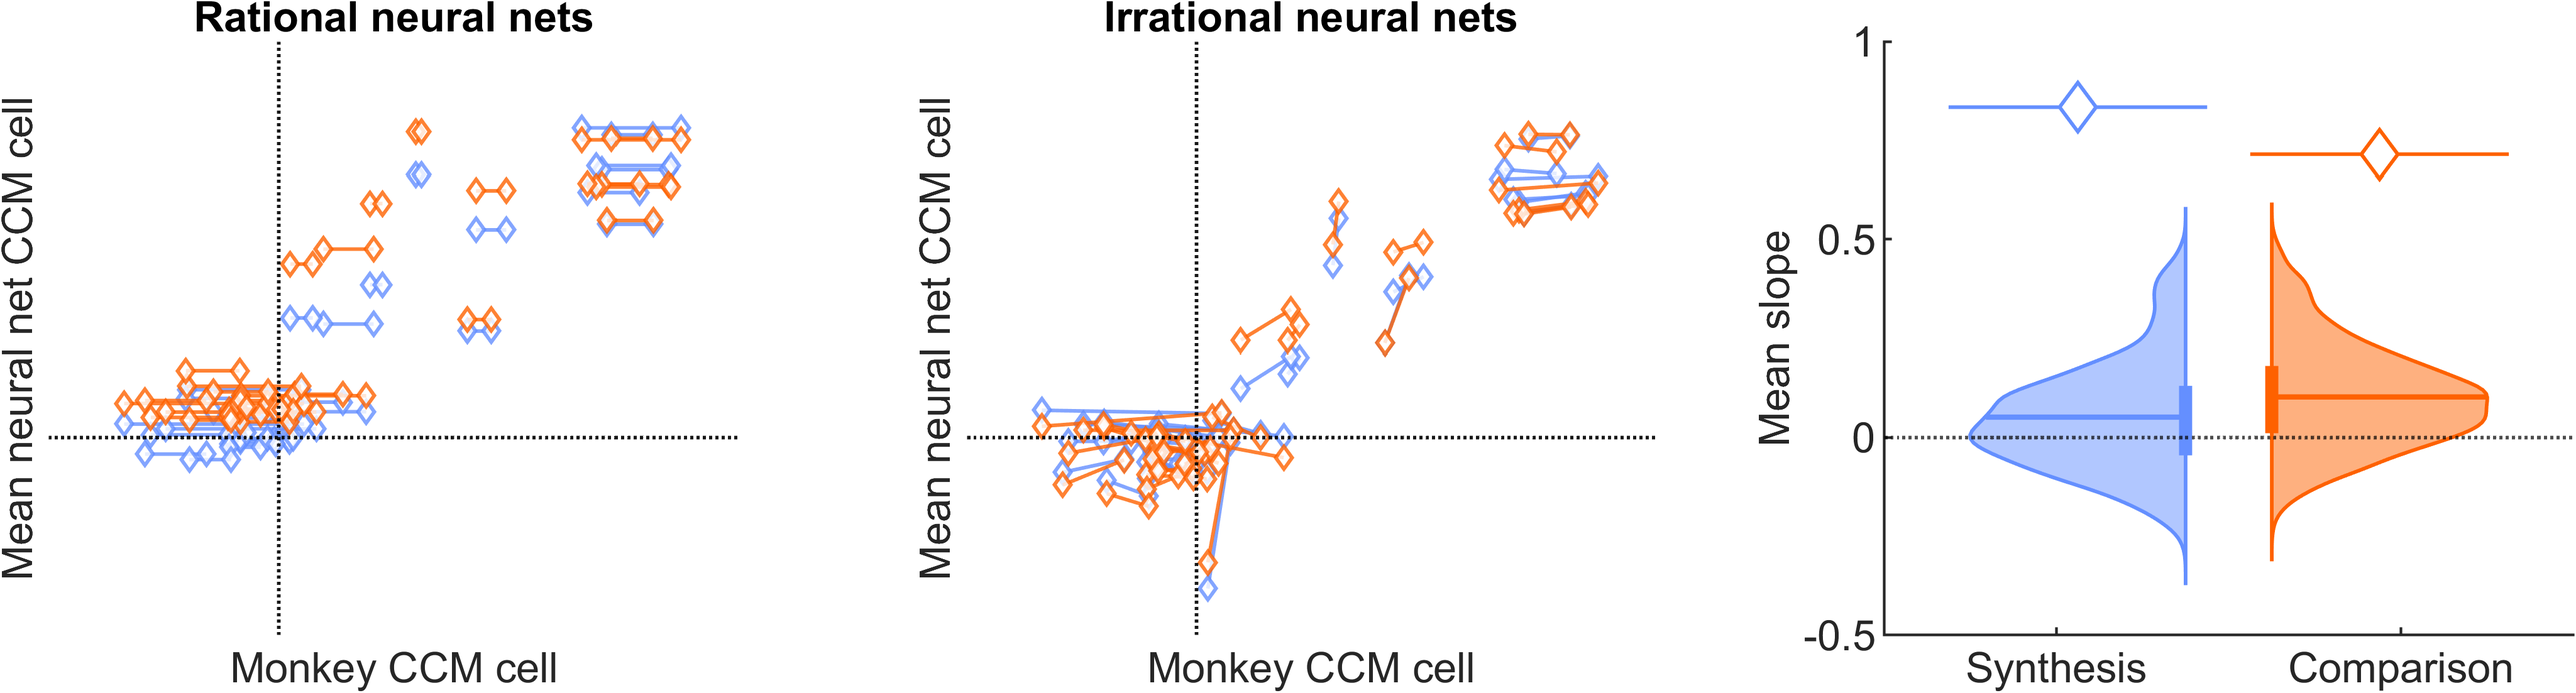
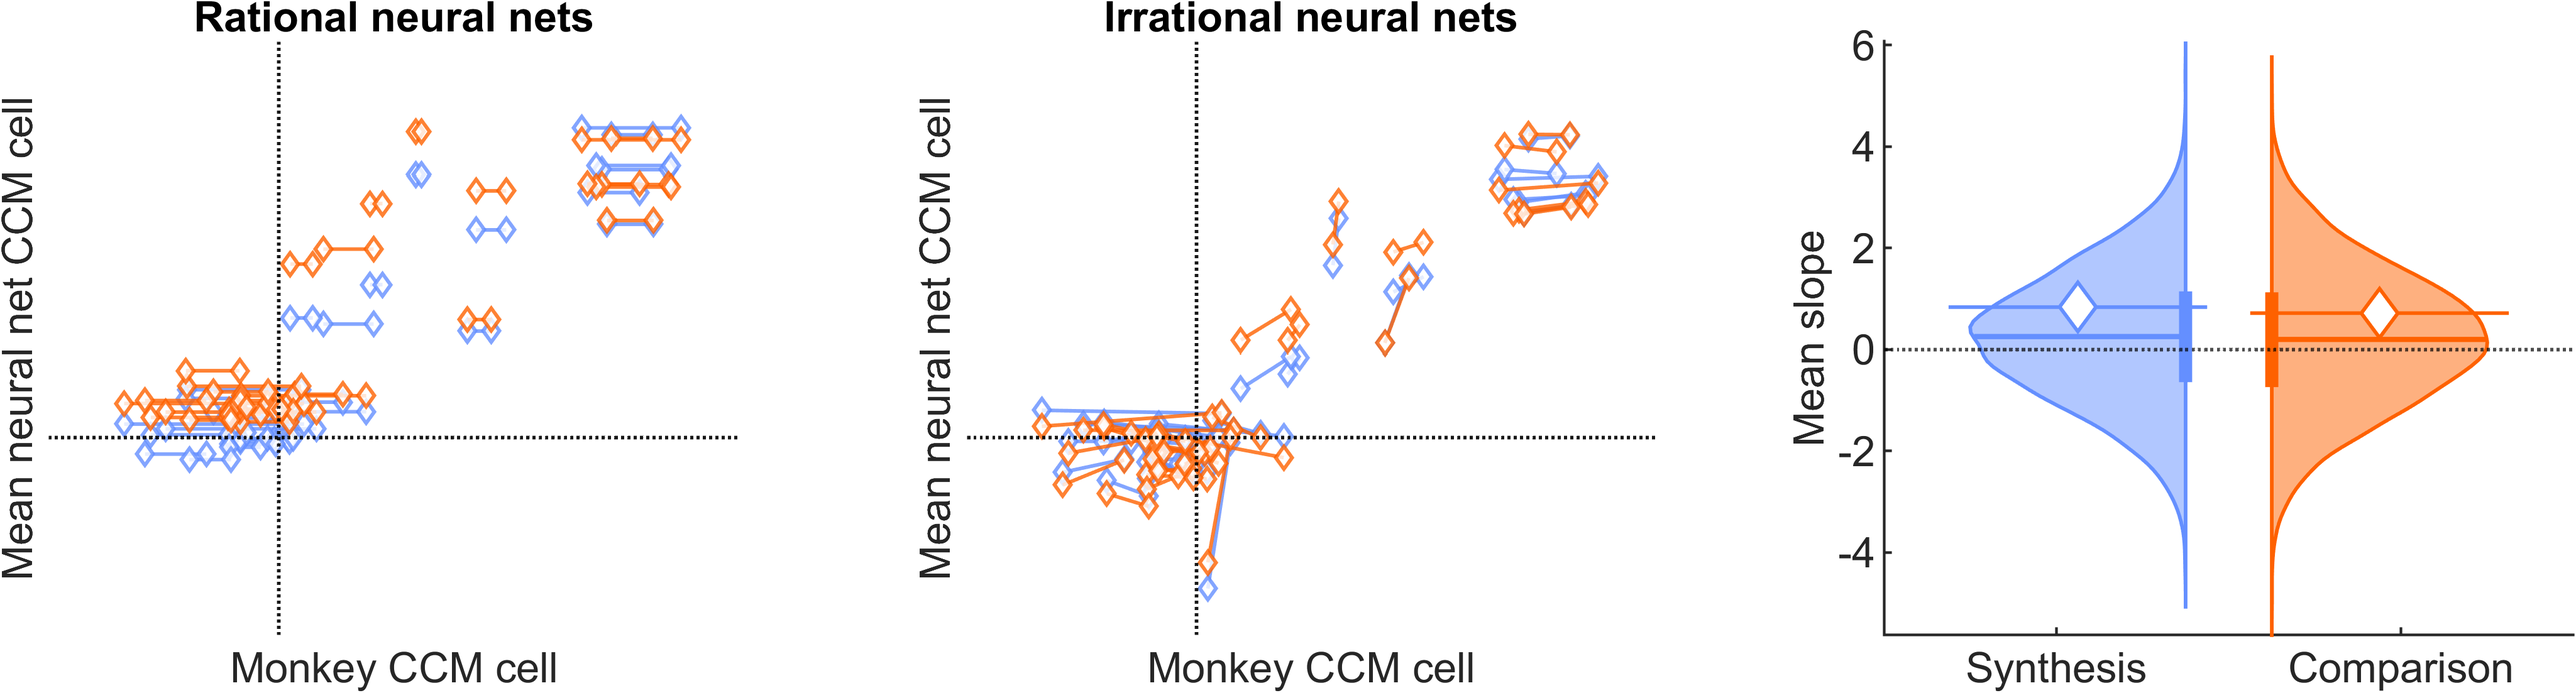
Shuffle independently all CCM cells

diff --git a/src/plots/figS6_choice_difficulty.m b/src/plots/figS6_choice_difficulty.m
@@ -1,0 +1,50 @@
+% Fig. S6 | Choice difficulty as a function of choice onset time. Average
+% choice ease, as measured in terms of the absolute value difference
+% between options (where option values are derived from each monkey's
+% estimated value profile), is plotted against choice onset time, for both
+% option (light) and attribute (dark) trials. Red and blue colors indicate
+% monkeys (red: monkey F, blue: monkey M).
+
+
+%% === Environment set-up =================================================
+
+setup;
+clear variables;
+close all;
+
+
+%% === Load data ==========================================================
+
+CueSequences = load(fullfile(getPath("MonkeyData"), "CueSequences.mat"));
+
+
+%% === Generate figure ====================================================
+
+close all;
+
+% Initialize the figure
+f = figure(...
+    Name = "Figure S6: choice difficulty as a function of choice onset time", ...
+    Units = "centimeters", ...
+    Position = [0, 0, 4.5, 4.5], ...
+    NumberTitle="off", ...
+    Color = "w");
+movegui(f, "center");
+
+% Define the layout
+t = tiledlayout(f, 1, 1, ...
+    TileSpacing="loose", ...
+    Units="centimeters", ...
+    Position=[0, 0, 4.5, 4.5]);
+
+% Subplots
+
+
+% Set font globally
+fontname(f, "arial");
+
+
+%% === Save figure ========================================================
+
+exportgraphics(f, fullfile(getPath("Figures"), "figS6.pdf"), ContentType="vector");
+exportgraphics(f, fullfile(getPath("Figures"), "figS6.png"), Resolution=600);

diff --git a/src/plots/subplots/plotCCMslopesDistrib.m b/src/plots/subplots/plotCCMslopesDistrib.m
@@ -86,9 +86,8 @@ for i_config = 9:10
     slopes_H0 = NaN(2 * n_cells, plot_options.n_MonteCarlo_simu);
     for i_simu = 1:plot_options.n_MonteCarlo_simu
         % Shuffle the model CCM cells
-        i_shuffle = repmat(randperm(n_cells)', 2, 1);
-        CCM_comp_Franck_shuffled = CCM_comp_Franck(i_shuffle);
-        CCM_comp_Miles_shuffled = CCM_comp_Miles(i_shuffle);
+        CCM_comp_Franck_shuffled = CCM_comp_Franck(randperm(2 * n_cells));
+        CCM_comp_Miles_shuffled = CCM_comp_Miles(randperm(2 * n_cells));
         slopes_H0(:, i_simu) = (CCM_comp_Franck_shuffled - CCM_comp_Miles_shuffled) ./ (CCM_Franck - CCM_Miles);
     end
     distrib_slopes_H0 = mean(slopes_H0, 1)';
@@ -131,7 +130,7 @@ for i_config = 9:10
 
     fprintf("Config %d: p(H0 >= actual data) = %0.1e\n", ...
         i_config, ...
-        sum(distrib_slopes_H0 >= mean_slope));
+        mean(distrib_slopes_H0 >= mean_slope));
 
 end
 
